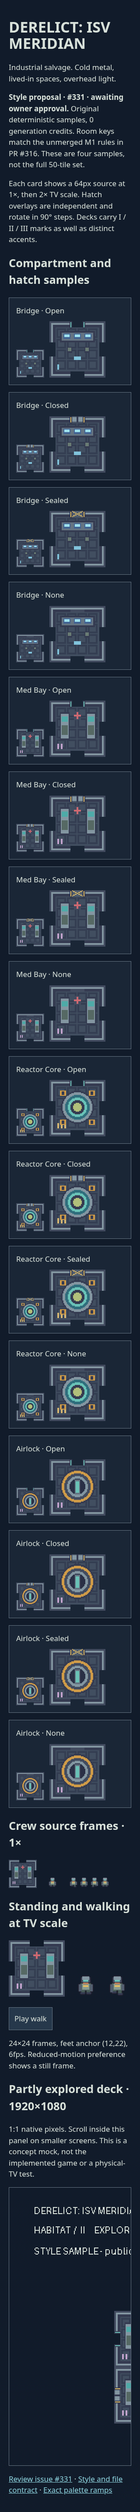
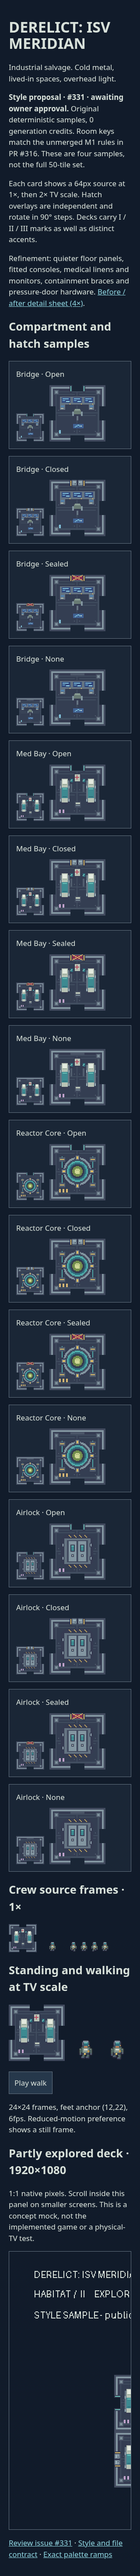
Refine Meridian room fixtures, material clusters and crew anatomy

diff --git a/docs/superpowers/reports/meridian-art/style/index.html b/docs/superpowers/reports/meridian-art/style/index.html
@@ -10,5 +10,5 @@ figcaption{margin-bottom:12px;text-transform:capitalize}.tile{position:relative;
 @keyframes walk{to{background-position:-192px 0}}@media(prefers-reduced-motion:reduce){.walker{animation:none}}body.paused .walker{animation-play-state:paused}
 </style><body><h1>DERELICT: ISV MERIDIAN</h1><p>Industrial salvage. Cold metal, lived-in spaces, overhead light.</p>
 <p><strong>Style proposal · #331 · awaiting owner approval.</strong> Original deterministic samples, 0 generation credits. Room keys match the unmerged M1 rules in PR #316. These are four samples, not the full 50-tile set.</p>
-<p>Each card shows a 64px source at 1×, then 2× TV scale. Hatch overlays are independent and rotate in 90° steps. Decks carry I / II / III marks as well as distinct accents.</p><h2>Compartment and hatch samples</h2><div class="grid"><figure><figcaption>bridge · open</figcaption><div class="tile s1" aria-label="1x"><img alt="" src="../../../../../content/meridian/base/tiles/bridge.7ddba1745235.png" width="64" height="64"><img alt="" src="../../../../../content/meridian/base/hatches/open.e7c1970b0975.png" width="64" height="64"></div><div class="tile s2" aria-label="2x"><img alt="" src="../../../../../content/meridian/base/tiles/bridge.7ddba1745235.png" width="128" height="128"><img alt="" src="../../../../../content/meridian/base/hatches/open.e7c1970b0975.png" width="128" height="128"></div></figure><figure><figcaption>bridge · closed</figcaption><div class="tile s1" aria-label="1x"><img alt="" src="../../../../../content/meridian/base/tiles/bridge.7ddba1745235.png" width="64" height="64"><img alt="" src="../../../../../content/meridian/base/hatches/closed.1f39489491df.png" width="64" height="64"></div><div class="tile s2" aria-label="2x"><img alt="" src="../../../../../content/meridian/base/tiles/bridge.7ddba1745235.png" width="128" height="128"><img alt="" src="../../../../../content/meridian/base/hatches/closed.1f39489491df.png" width="128" height="128"></div></figure><figure><figcaption>bridge · sealed</figcaption><div class="tile s1" aria-label="1x"><img alt="" src="../../../../../content/meridian/base/tiles/bridge.7ddba1745235.png" width="64" height="64"><img alt="" src="../../../../../content/meridian/base/hatches/sealed.a6ac27d481f4.png" width="64" height="64"></div><div class="tile s2" aria-label="2x"><img alt="" src="../../../../../content/meridian/base/tiles/bridge.7ddba1745235.png" width="128" height="128"><img alt="" src="../../../../../content/meridian/base/hatches/sealed.a6ac27d481f4.png" width="128" height="128"></div></figure><figure><figcaption>bridge · none</figcaption><div class="tile s1" aria-label="1x"><img alt="" src="../../../../../content/meridian/base/tiles/bridge.7ddba1745235.png" width="64" height="64"><img alt="" src="../../../../../content/meridian/base/hatches/none.5e0029512cc7.png" width="64" height="64"></div><div class="tile s2" aria-label="2x"><img alt="" src="../../../../../content/meridian/base/tiles/bridge.7ddba1745235.png" width="128" height="128"><img alt="" src="../../../../../content/meridian/base/hatches/none.5e0029512cc7.png" width="128" height="128"></div></figure><figure><figcaption>med bay · open</figcaption><div class="tile s1" aria-label="1x"><img alt="" src="../../../../../content/meridian/base/tiles/med_bay.4d6d5a795887.png" width="64" height="64"><img alt="" src="../../../../../content/meridian/base/hatches/open.e7c1970b0975.png" width="64" height="64"></div><div class="tile s2" aria-label="2x"><img alt="" src="../../../../../content/meridian/base/tiles/med_bay.4d6d5a795887.png" width="128" height="128"><img alt="" src="../../../../../content/meridian/base/hatches/open.e7c1970b0975.png" width="128" height="128"></div></figure><figure><figcaption>med bay · closed</figcaption><div class="tile s1" aria-label="1x"><img alt="" src="../../../../../content/meridian/base/tiles/med_bay.4d6d5a795887.png" width="64" height="64"><img alt="" src="../../../../../content/meridian/base/hatches/closed.1f39489491df.png" width="64" height="64"></div><div class="tile s2" aria-label="2x"><img alt="" src="../../../../../content/meridian/base/tiles/med_bay.4d6d5a795887.png" width="128" height="128"><img alt="" src="../../../../../content/meridian/base/hatches/closed.1f39489491df.png" width="128" height="128"></div></figure><figure><figcaption>med bay · sealed</figcaption><div class="tile s1" aria-label="1x"><img alt="" src="../../../../../content/meridian/base/tiles/med_bay.4d6d5a795887.png" width="64" height="64"><img alt="" src="../../../../../content/meridian/base/hatches/sealed.a6ac27d481f4.png" width="64" height="64"></div><div class="tile s2" aria-label="2x"><img alt="" src="../../../../../content/meridian/base/tiles/med_bay.4d6d5a795887.png" width="128" height="128"><img alt="" src="../../../../../content/meridian/base/hatches/sealed.a6ac27d481f4.png" width="128" height="128"></div></figure><figure><figcaption>med bay · none</figcaption><div class="tile s1" aria-label="1x"><img alt="" src="../../../../../content/meridian/base/tiles/med_bay.4d6d5a795887.png" width="64" height="64"><img alt="" src="../../../../../content/meridian/base/hatches/none.5e0029512cc7.png" width="64" height="64"></div><div class="tile s2" aria-label="2x"><img alt="" src="../../../../../content/meridian/base/tiles/med_bay.4d6d5a795887.png" width="128" height="128"><img alt="" src="../../../../../content/meridian/base/hatches/none.5e0029512cc7.png" width="128" height="128"></div></figure><figure><figcaption>reactor core · open</figcaption><div class="tile s1" aria-label="1x"><img alt="" src="../../../../../content/meridian/base/tiles/reactor_core.797f3e9c5738.png" width="64" height="64"><img alt="" src="../../../../../content/meridian/base/hatches/open.e7c1970b0975.png" width="64" height="64"></div><div class="tile s2" aria-label="2x"><img alt="" src="../../../../../content/meridian/base/tiles/reactor_core.797f3e9c5738.png" width="128" height="128"><img alt="" src="../../../../../content/meridian/base/hatches/open.e7c1970b0975.png" width="128" height="128"></div></figure><figure><figcaption>reactor core · closed</figcaption><div class="tile s1" aria-label="1x"><img alt="" src="../../../../../content/meridian/base/tiles/reactor_core.797f3e9c5738.png" width="64" height="64"><img alt="" src="../../../../../content/meridian/base/hatches/closed.1f39489491df.png" width="64" height="64"></div><div class="tile s2" aria-label="2x"><img alt="" src="../../../../../content/meridian/base/tiles/reactor_core.797f3e9c5738.png" width="128" height="128"><img alt="" src="../../../../../content/meridian/base/hatches/closed.1f39489491df.png" width="128" height="128"></div></figure><figure><figcaption>reactor core · sealed</figcaption><div class="tile s1" aria-label="1x"><img alt="" src="../../../../../content/meridian/base/tiles/reactor_core.797f3e9c5738.png" width="64" height="64"><img alt="" src="../../../../../content/meridian/base/hatches/sealed.a6ac27d481f4.png" width="64" height="64"></div><div class="tile s2" aria-label="2x"><img alt="" src="../../../../../content/meridian/base/tiles/reactor_core.797f3e9c5738.png" width="128" height="128"><img alt="" src="../../../../../content/meridian/base/hatches/sealed.a6ac27d481f4.png" width="128" height="128"></div></figure><figure><figcaption>reactor core · none</figcaption><div class="tile s1" aria-label="1x"><img alt="" src="../../../../../content/meridian/base/tiles/reactor_core.797f3e9c5738.png" width="64" height="64"><img alt="" src="../../../../../content/meridian/base/hatches/none.5e0029512cc7.png" width="64" height="64"></div><div class="tile s2" aria-label="2x"><img alt="" src="../../../../../content/meridian/base/tiles/reactor_core.797f3e9c5738.png" width="128" height="128"><img alt="" src="../../../../../content/meridian/base/hatches/none.5e0029512cc7.png" width="128" height="128"></div></figure><figure><figcaption>airlock · open</figcaption><div class="tile s1" aria-label="1x"><img alt="" src="../../../../../content/meridian/base/tiles/airlock.a4e1eecfe9bd.png" width="64" height="64"><img alt="" src="../../../../../content/meridian/base/hatches/open.e7c1970b0975.png" width="64" height="64"></div><div class="tile s2" aria-label="2x"><img alt="" src="../../../../../content/meridian/base/tiles/airlock.a4e1eecfe9bd.png" width="128" height="128"><img alt="" src="../../../../../content/meridian/base/hatches/open.e7c1970b0975.png" width="128" height="128"></div></figure><figure><figcaption>airlock · closed</figcaption><div class="tile s1" aria-label="1x"><img alt="" src="../../../../../content/meridian/base/tiles/airlock.a4e1eecfe9bd.png" width="64" height="64"><img alt="" src="../../../../../content/meridian/base/hatches/closed.1f39489491df.png" width="64" height="64"></div><div class="tile s2" aria-label="2x"><img alt="" src="../../../../../content/meridian/base/tiles/airlock.a4e1eecfe9bd.png" width="128" height="128"><img alt="" src="../../../../../content/meridian/base/hatches/closed.1f39489491df.png" width="128" height="128"></div></figure><figure><figcaption>airlock · sealed</figcaption><div class="tile s1" aria-label="1x"><img alt="" src="../../../../../content/meridian/base/tiles/airlock.a4e1eecfe9bd.png" width="64" height="64"><img alt="" src="../../../../../content/meridian/base/hatches/sealed.a6ac27d481f4.png" width="64" height="64"></div><div class="tile s2" aria-label="2x"><img alt="" src="../../../../../content/meridian/base/tiles/airlock.a4e1eecfe9bd.png" width="128" height="128"><img alt="" src="../../../../../content/meridian/base/hatches/sealed.a6ac27d481f4.png" width="128" height="128"></div></figure><figure><figcaption>airlock · none</figcaption><div class="tile s1" aria-label="1x"><img alt="" src="../../../../../content/meridian/base/tiles/airlock.a4e1eecfe9bd.png" width="64" height="64"><img alt="" src="../../../../../content/meridian/base/hatches/none.5e0029512cc7.png" width="64" height="64"></div><div class="tile s2" aria-label="2x"><img alt="" src="../../../../../content/meridian/base/tiles/airlock.a4e1eecfe9bd.png" width="128" height="128"><img alt="" src="../../../../../content/meridian/base/hatches/none.5e0029512cc7.png" width="128" height="128"></div></figure></div><h2>Crew source frames · 1×</h2><div class="crew"><img alt="Compartment at 1x" src="../../../../../content/meridian/base/tiles/med_bay.4d6d5a795887.png" width="64" height="64"><img alt="Ines standing at 1x" src="../../../../../content/meridian/base/crew/ines-okafor-idle.325eb04bccbc.png" width="24" height="24"><img alt="Four walking frames at 1x" src="../../../../../content/meridian/base/crew/ines-okafor-walk.e9eaa4d39c8b.png" width="96" height="24"></div><h2>Standing and walking at TV scale</h2><div class="crew"><img alt="Habitat compartment at 2x" src="../../../../../content/meridian/base/tiles/med_bay.4d6d5a795887.png" width="128" height="128"><img alt="Ines standing at 2x" src="../../../../../content/meridian/base/crew/ines-okafor-idle.325eb04bccbc.png" width="48" height="48"><div role="img" aria-label="Ines walking at 2x" class="walker" style="background-image:url(../../../../../content/meridian/base/crew/ines-okafor-walk.e9eaa4d39c8b.png)"></div><button id="motion">Pause walk</button></div><p>24×24 frames, feet anchor (12,22), 6fps. Reduced-motion preference shows a still frame.</p><h2>Partly explored deck · 1920×1080</h2><p>1:1 native pixels. Scroll inside this panel on smaller screens. This is a concept mock, not the implemented game or a physical-TV test.</p><div class="pan" tabindex="0" aria-label="Full resolution TV mock; scroll to inspect"><img src="deck-mock-1080.png" width="1920" height="1080" alt="Habitat exploration mock with two crew, separate Command and Engineering samples, hatch legend and deck labels"></div>
+<p>Each card shows a 64px source at 1×, then 2× TV scale. Hatch overlays are independent and rotate in 90° steps. Decks carry I / II / III marks as well as distinct accents.</p><p>Refinement: quieter floor panels, fitted consoles, medical linens and monitors, containment braces and pressure-door hardware. <a href="detail-comparison.png">Before / after detail sheet (4×)</a>.</p><h2>Compartment and hatch samples</h2><div class="grid"><figure><figcaption>bridge · open</figcaption><div class="tile s1" aria-label="1x"><img alt="" src="../../../../../content/meridian/base/tiles/bridge.643961f96cc4.png" width="64" height="64"><img alt="" src="../../../../../content/meridian/base/hatches/open.e7c1970b0975.png" width="64" height="64"></div><div class="tile s2" aria-label="2x"><img alt="" src="../../../../../content/meridian/base/tiles/bridge.643961f96cc4.png" width="128" height="128"><img alt="" src="../../../../../content/meridian/base/hatches/open.e7c1970b0975.png" width="128" height="128"></div></figure><figure><figcaption>bridge · closed</figcaption><div class="tile s1" aria-label="1x"><img alt="" src="../../../../../content/meridian/base/tiles/bridge.643961f96cc4.png" width="64" height="64"><img alt="" src="../../../../../content/meridian/base/hatches/closed.f20fc87c6603.png" width="64" height="64"></div><div class="tile s2" aria-label="2x"><img alt="" src="../../../../../content/meridian/base/tiles/bridge.643961f96cc4.png" width="128" height="128"><img alt="" src="../../../../../content/meridian/base/hatches/closed.f20fc87c6603.png" width="128" height="128"></div></figure><figure><figcaption>bridge · sealed</figcaption><div class="tile s1" aria-label="1x"><img alt="" src="../../../../../content/meridian/base/tiles/bridge.643961f96cc4.png" width="64" height="64"><img alt="" src="../../../../../content/meridian/base/hatches/sealed.78098a4b9f0e.png" width="64" height="64"></div><div class="tile s2" aria-label="2x"><img alt="" src="../../../../../content/meridian/base/tiles/bridge.643961f96cc4.png" width="128" height="128"><img alt="" src="../../../../../content/meridian/base/hatches/sealed.78098a4b9f0e.png" width="128" height="128"></div></figure><figure><figcaption>bridge · none</figcaption><div class="tile s1" aria-label="1x"><img alt="" src="../../../../../content/meridian/base/tiles/bridge.643961f96cc4.png" width="64" height="64"><img alt="" src="../../../../../content/meridian/base/hatches/none.5eeef845f8ae.png" width="64" height="64"></div><div class="tile s2" aria-label="2x"><img alt="" src="../../../../../content/meridian/base/tiles/bridge.643961f96cc4.png" width="128" height="128"><img alt="" src="../../../../../content/meridian/base/hatches/none.5eeef845f8ae.png" width="128" height="128"></div></figure><figure><figcaption>med bay · open</figcaption><div class="tile s1" aria-label="1x"><img alt="" src="../../../../../content/meridian/base/tiles/med_bay.5661eec2c20b.png" width="64" height="64"><img alt="" src="../../../../../content/meridian/base/hatches/open.e7c1970b0975.png" width="64" height="64"></div><div class="tile s2" aria-label="2x"><img alt="" src="../../../../../content/meridian/base/tiles/med_bay.5661eec2c20b.png" width="128" height="128"><img alt="" src="../../../../../content/meridian/base/hatches/open.e7c1970b0975.png" width="128" height="128"></div></figure><figure><figcaption>med bay · closed</figcaption><div class="tile s1" aria-label="1x"><img alt="" src="../../../../../content/meridian/base/tiles/med_bay.5661eec2c20b.png" width="64" height="64"><img alt="" src="../../../../../content/meridian/base/hatches/closed.f20fc87c6603.png" width="64" height="64"></div><div class="tile s2" aria-label="2x"><img alt="" src="../../../../../content/meridian/base/tiles/med_bay.5661eec2c20b.png" width="128" height="128"><img alt="" src="../../../../../content/meridian/base/hatches/closed.f20fc87c6603.png" width="128" height="128"></div></figure><figure><figcaption>med bay · sealed</figcaption><div class="tile s1" aria-label="1x"><img alt="" src="../../../../../content/meridian/base/tiles/med_bay.5661eec2c20b.png" width="64" height="64"><img alt="" src="../../../../../content/meridian/base/hatches/sealed.78098a4b9f0e.png" width="64" height="64"></div><div class="tile s2" aria-label="2x"><img alt="" src="../../../../../content/meridian/base/tiles/med_bay.5661eec2c20b.png" width="128" height="128"><img alt="" src="../../../../../content/meridian/base/hatches/sealed.78098a4b9f0e.png" width="128" height="128"></div></figure><figure><figcaption>med bay · none</figcaption><div class="tile s1" aria-label="1x"><img alt="" src="../../../../../content/meridian/base/tiles/med_bay.5661eec2c20b.png" width="64" height="64"><img alt="" src="../../../../../content/meridian/base/hatches/none.5eeef845f8ae.png" width="64" height="64"></div><div class="tile s2" aria-label="2x"><img alt="" src="../../../../../content/meridian/base/tiles/med_bay.5661eec2c20b.png" width="128" height="128"><img alt="" src="../../../../../content/meridian/base/hatches/none.5eeef845f8ae.png" width="128" height="128"></div></figure><figure><figcaption>reactor core · open</figcaption><div class="tile s1" aria-label="1x"><img alt="" src="../../../../../content/meridian/base/tiles/reactor_core.3fde76e50072.png" width="64" height="64"><img alt="" src="../../../../../content/meridian/base/hatches/open.e7c1970b0975.png" width="64" height="64"></div><div class="tile s2" aria-label="2x"><img alt="" src="../../../../../content/meridian/base/tiles/reactor_core.3fde76e50072.png" width="128" height="128"><img alt="" src="../../../../../content/meridian/base/hatches/open.e7c1970b0975.png" width="128" height="128"></div></figure><figure><figcaption>reactor core · closed</figcaption><div class="tile s1" aria-label="1x"><img alt="" src="../../../../../content/meridian/base/tiles/reactor_core.3fde76e50072.png" width="64" height="64"><img alt="" src="../../../../../content/meridian/base/hatches/closed.f20fc87c6603.png" width="64" height="64"></div><div class="tile s2" aria-label="2x"><img alt="" src="../../../../../content/meridian/base/tiles/reactor_core.3fde76e50072.png" width="128" height="128"><img alt="" src="../../../../../content/meridian/base/hatches/closed.f20fc87c6603.png" width="128" height="128"></div></figure><figure><figcaption>reactor core · sealed</figcaption><div class="tile s1" aria-label="1x"><img alt="" src="../../../../../content/meridian/base/tiles/reactor_core.3fde76e50072.png" width="64" height="64"><img alt="" src="../../../../../content/meridian/base/hatches/sealed.78098a4b9f0e.png" width="64" height="64"></div><div class="tile s2" aria-label="2x"><img alt="" src="../../../../../content/meridian/base/tiles/reactor_core.3fde76e50072.png" width="128" height="128"><img alt="" src="../../../../../content/meridian/base/hatches/sealed.78098a4b9f0e.png" width="128" height="128"></div></figure><figure><figcaption>reactor core · none</figcaption><div class="tile s1" aria-label="1x"><img alt="" src="../../../../../content/meridian/base/tiles/reactor_core.3fde76e50072.png" width="64" height="64"><img alt="" src="../../../../../content/meridian/base/hatches/none.5eeef845f8ae.png" width="64" height="64"></div><div class="tile s2" aria-label="2x"><img alt="" src="../../../../../content/meridian/base/tiles/reactor_core.3fde76e50072.png" width="128" height="128"><img alt="" src="../../../../../content/meridian/base/hatches/none.5eeef845f8ae.png" width="128" height="128"></div></figure><figure><figcaption>airlock · open</figcaption><div class="tile s1" aria-label="1x"><img alt="" src="../../../../../content/meridian/base/tiles/airlock.5a8c019825e3.png" width="64" height="64"><img alt="" src="../../../../../content/meridian/base/hatches/open.e7c1970b0975.png" width="64" height="64"></div><div class="tile s2" aria-label="2x"><img alt="" src="../../../../../content/meridian/base/tiles/airlock.5a8c019825e3.png" width="128" height="128"><img alt="" src="../../../../../content/meridian/base/hatches/open.e7c1970b0975.png" width="128" height="128"></div></figure><figure><figcaption>airlock · closed</figcaption><div class="tile s1" aria-label="1x"><img alt="" src="../../../../../content/meridian/base/tiles/airlock.5a8c019825e3.png" width="64" height="64"><img alt="" src="../../../../../content/meridian/base/hatches/closed.f20fc87c6603.png" width="64" height="64"></div><div class="tile s2" aria-label="2x"><img alt="" src="../../../../../content/meridian/base/tiles/airlock.5a8c019825e3.png" width="128" height="128"><img alt="" src="../../../../../content/meridian/base/hatches/closed.f20fc87c6603.png" width="128" height="128"></div></figure><figure><figcaption>airlock · sealed</figcaption><div class="tile s1" aria-label="1x"><img alt="" src="../../../../../content/meridian/base/tiles/airlock.5a8c019825e3.png" width="64" height="64"><img alt="" src="../../../../../content/meridian/base/hatches/sealed.78098a4b9f0e.png" width="64" height="64"></div><div class="tile s2" aria-label="2x"><img alt="" src="../../../../../content/meridian/base/tiles/airlock.5a8c019825e3.png" width="128" height="128"><img alt="" src="../../../../../content/meridian/base/hatches/sealed.78098a4b9f0e.png" width="128" height="128"></div></figure><figure><figcaption>airlock · none</figcaption><div class="tile s1" aria-label="1x"><img alt="" src="../../../../../content/meridian/base/tiles/airlock.5a8c019825e3.png" width="64" height="64"><img alt="" src="../../../../../content/meridian/base/hatches/none.5eeef845f8ae.png" width="64" height="64"></div><div class="tile s2" aria-label="2x"><img alt="" src="../../../../../content/meridian/base/tiles/airlock.5a8c019825e3.png" width="128" height="128"><img alt="" src="../../../../../content/meridian/base/hatches/none.5eeef845f8ae.png" width="128" height="128"></div></figure></div><h2>Crew source frames · 1×</h2><div class="crew"><img alt="Compartment at 1x" src="../../../../../content/meridian/base/tiles/med_bay.5661eec2c20b.png" width="64" height="64"><img alt="Ines standing at 1x" src="../../../../../content/meridian/base/crew/ines-okafor-idle.a1ca1b3a07f0.png" width="24" height="24"><img alt="Four walking frames at 1x" src="../../../../../content/meridian/base/crew/ines-okafor-walk.1f9f5985b6f3.png" width="96" height="24"></div><h2>Standing and walking at TV scale</h2><div class="crew"><img alt="Habitat compartment at 2x" src="../../../../../content/meridian/base/tiles/med_bay.5661eec2c20b.png" width="128" height="128"><img alt="Ines standing at 2x" src="../../../../../content/meridian/base/crew/ines-okafor-idle.a1ca1b3a07f0.png" width="48" height="48"><div role="img" aria-label="Ines walking at 2x" class="walker" style="background-image:url(../../../../../content/meridian/base/crew/ines-okafor-walk.1f9f5985b6f3.png)"></div><button id="motion">Pause walk</button></div><p>24×24 frames, feet anchor (12,22), 6fps. Reduced-motion preference shows a still frame.</p><h2>Partly explored deck · 1920×1080</h2><p>1:1 native pixels. Scroll inside this panel on smaller screens. This is a concept mock, not the implemented game or a physical-TV test.</p><div class="pan" tabindex="0" aria-label="Full resolution TV mock; scroll to inspect"><img src="deck-mock-1080.png" width="1920" height="1080" alt="Habitat exploration mock with two crew, separate Command and Engineering samples, hatch legend and deck labels"></div>
 <p><a href="https://github.com/higharc91/ArcBox/issues/331">Review issue #331</a> · <a href="../../../../../tools/meridian-assets/STYLE.md">Style and file contract</a> · <a href="palette.json">Exact palette ramps</a></p><script>const b=document.querySelector('#motion');b.onclick=()=>{document.body.classList.toggle('paused');b.textContent=document.body.classList.contains('paused')?'Play walk':'Pause walk'};</script></body></html>

diff --git a/tools/meridian-assets/build.py b/tools/meridian-assets/build.py
@@ -17,7 +17,7 @@ from arcpix.palette import ramp
 
 BASES = {'hull': '#657482', 'floor': '#414e60', 'warning': '#cf9b48', 'red': '#b94e61',
          'coolant': '#4eaaa8', 'anomaly': '#91a660', 'command': '#68a5c8',
-         'habitat': '#a98cb8', 'engineering': '#c39759', 'skin': '#b67d59', 'suit': '#697b74'}
+         'habitat': '#a98cb8', 'engineering': '#c39759', 'skin': '#b67d59', 'suit': '#697b74', 'linen': '#b8c3b6'}
 PALETTE = {name: ramp(value, shift=.055, spread=.85) for name, value in BASES.items()}
 PLAYERS = ['#ff8a3d', '#3ec7ff', '#c08cff', '#5fe08a', '#ffd447', '#ff7fb6']
 SAMPLES = {'bridge': 'command', 'med_bay': 'habitat', 'reactor_core': 'engineering', 'airlock': 'habitat'}
@@ -36,45 +36,114 @@ def room(key):
     c.rect(2, 2, 61, 61, 'hull', 4)
     c.rect(4, 4, 59, 59, 'hull', 0)
     c.rect(7, 7, 56, 56, 'floor', 3)
-    for y in range(8, 56, 12):
-        for x in range(8, 56, 12):
-            c.rect(x, y, x+10, y+10, 'floor', 2)
-            c.rect(x+2, y+2, x+8, y+8, 'floor', 3)
+    # Quiet large panels keep small equipment silhouettes legible at 2x.
+    for y in [8, 32]:
+        for x in [8, 32]:
+            c.rect(x, y, x+22, y+22, 'floor', 2)
+            c.line(x+2, y+2, x+20, y+2, 'floor', 3)
+            c.px(x+2, y+20, 'hull', 2)
+            c.px(x+20, y+20, 'hull', 2)
+    # Matching corner couplers, illuminated from overhead rather than a compass direction.
+    for x, y in [(5, 5), (53, 5), (5, 53), (53, 53)]:
+        c.rect(x, y, x+5, y+5, 'hull', 1)
+        c.rect(x+1, y+1, x+4, y+4, 'hull', 3)
+        c.rect(x+2, y+2, x+3, y+3, 'hull', 4)
     deck = SAMPLES[key]
     for i in range(['command', 'habitat', 'engineering'].index(deck)+1):
-        c.rect(9+i*4, 49, 10+i*4, 54, deck, 4)
+        c.rect(11+i*4, 51, 12+i*4, 54, deck, 4)
     if key == 'bridge':
-        c.rect(12, 11, 51, 23, 'hull', 0)
-        c.rect(14, 13, 49, 21, 'hull', 3)
-        for x in [16, 28, 40]:
-            c.rect(x, 14, x+7, 19, 'command', 1)
-            c.rect(x+1, 15, x+6, 17, 'command', 5)
-        for x in [20, 40]:
-            c.rect(x, 29, x+5, 35, 'hull', 0)
-            c.rect(x+1, 30, x+4, 33, 'suit', 3)
-        c.rect(28, 40, 35, 43, 'command', 4)
+        # Wraparound station: inset glass, clustered telemetry and discrete controls.
+        c.polygon([(11,12),(52,12),(52,29),(44,29),(44,23),(19,23),(19,29),(11,29)], 'hull', 0)
+        c.rect(12,13,51,21,'hull',3)
+        for x in [14,27,40]:
+            c.rect(x,14,x+9,19,'command',0)
+            c.line(x+1,15,x+7,15,'command',4)
+            c.line(x+1,17,x+3,17,'command',3)
+            c.line(x+5,18,x+8,18,'command',5)
+            c.px(x+9,21,'warning',4)
+        for x in [12,45]:
+            c.rect(x,22,x+5,27,'hull',3)
+            c.rect(x+1,23,x+4,24,'command',2)
+            c.line(x+1,26,x+3,26,'linen',3)
+        # Chair has a back, armrests, seat and a visible pedestal.
+        c.ellipse(32,37,5,3,'hull',0)
+        c.rect(31,32,32,39,'hull',3)
+        c.rect(27,27,36,34,'hull',0)
+        c.rect(28,28,35,32,'suit',3)
+        c.rect(29,27,34,28,'suit',4)
+        c.rect(26,30,27,34,'hull',4)
+        c.rect(36,30,37,34,'hull',4)
+        # Low navigation table with a deliberately sparse route diagram.
+        c.rect(26,43,39,49,'hull',0)
+        c.rect(27,44,38,48,'command',1)
+        c.line(29,47,32,45,'command',4)
+        c.line(32,45,36,46,'command',4)
+        c.px(36,46,'linen',5)
     elif key == 'med_bay':
-        for x in [12, 42]:
-            c.rect(x, 13, x+10, 44, 'hull', 0)
-            c.rect(x+1, 15, x+9, 42, 'hull', 4)
-            c.rect(x+2, 18, x+8, 23, 'coolant', 3)
-            c.rect(x+2, 28, x+8, 38, 'suit', 2)
-        c.rect(28, 12, 35, 21, 'hull', 1)
-        c.rect(31, 13, 32, 20, 'red', 4)
-        c.rect(28, 16, 35, 17, 'red', 4)
+        for x in [12,42]:
+            c.rect(x+1,15,x+9,45,'hull',0)
+            c.rect(x,18,x+10,41,'hull',3)
+            c.rect(x+2,16,x+8,42,'linen',3)
+            c.rect(x+3,17,x+7,21,'linen',5)
+            c.line(x+3,22,x+7,22,'linen',2)
+            c.rect(x+2,26,x+8,37,'coolant',2)
+            c.line(x+3,27,x+7,27,'coolant',4)
+            c.line(x+3,36,x+7,36,'coolant',1)
+            for y in [24,39]:
+                c.line(x,y,x,y+2,'hull',5)
+                c.line(x+10,y,x+10,y+2,'hull',5)
+            # Bedside monitor, its support and a waveform rather than a bright slab.
+            mx = x+11 if x == 12 else x-5
+            c.rect(mx+1,21,mx+2,30,'hull',2)
+            c.rect(mx,15,mx+4,21,'hull',0)
+            c.rect(mx+1,16,mx+3,19,'coolant',1)
+            c.line(mx+1,18,mx+2,17,'coolant',5)
+        c.rect(28,10,35,19,'hull',0)
+        c.rect(29,11,34,18,'linen',3)
+        c.line(31,12,31,16,'red',3)
+        c.line(29,14,33,14,'red',3)
+        c.rect(29,42,35,48,'hull',1)
+        c.rect(30,43,34,44,'linen',3)
+        c.line(30,46,34,46,'hull',4)
     elif key == 'reactor_core':
-        for radius, slot, shade in [(19, 'hull', 0), (17, 'hull', 4), (14, 'coolant', 1),
-                                    (11, 'coolant', 4), (8, 'hull', 0), (5, 'anomaly', 4)]:
-            c.ellipse(32, 31, radius, radius, slot, shade)
-        for x, y in [(12, 12), (45, 12), (12, 45), (45, 45)]:
-            c.rect(x, y, x+6, y+5, 'warning', 3)
-            c.rect(x+2, y+1, x+4, y+4, 'hull', 0)
+        # Pipes terminate in paired valve housings around a segmented containment ring.
+        for x in [13,48]:
+            c.rect(x,13,x+2,48,'hull',0)
+            c.line(x+1,14,x+1,47,'coolant',3)
+            for y in [15,44]:
+                c.rect(x-2,y,x+4,y+4,'hull',2)
+                c.line(x-1,y+2,x+3,y+2,'warning',4)
+        for radius,slot,shade in [(18,'hull',0),(16,'hull',4),(14,'hull',1),
+                                  (12,'coolant',3),(10,'coolant',1),(8,'hull',0),
+                                  (6,'anomaly',2),(3,'anomaly',5)]:
+            c.ellipse(32,31,radius,radius,slot,shade)
+        for x,y,w,h in [(29,12,6,7),(29,44,6,7),(13,28,7,6),(45,28,7,6)]:
+            c.rect(x,y,x+w-1,y+h-1,'hull',0)
+            c.rect(x+1,y+1,x+w-2,y+h-2,'hull',3)
+            c.rect(x+2,y+2,x+w-3,y+h-3,'warning',4)
+        c.line(30,29,33,29,'anomaly',4)
+        c.line(34,30,34,33,'anomaly',4)
     else:
-        for radius, slot, shade in [(20, 'hull', 0), (18, 'warning', 3), (15, 'hull', 1),
-                                    (12, 'hull', 4), (9, 'floor', 1)]:
-            c.ellipse(32, 31, radius, radius, slot, shade)
-        c.rect(29, 23, 34, 39, 'hull', 3)
-        c.rect(30, 25, 33, 37, 'coolant', 4)
+        # Rectangular pressure vestibule distinguishes the airlock from the reactor.
+        c.polygon([(19,12),(44,12),(50,18),(50,44),(44,50),(19,50),(13,44),(13,18)],'hull',0)
+        c.rect(17,17,46,45,'hull',3)
+        c.rect(20,19,43,43,'hull',1)
+        c.rect(22,20,41,42,'hull',4)
+        c.line(31,20,31,42,'hull',0)
+        c.line(32,20,32,42,'hull',2)
+        for x in [24,35]:
+            c.rect(x,24,x+4,31,'hull',0)
+            c.rect(x+1,25,x+3,30,'coolant',2)
+            c.line(x+1,25,x+3,25,'coolant',4)
+            c.rect(x+1,35,x+3,37,'hull',1)
+            c.px(x+2,36,'linen',4)
+        for y in [13,47]:
+            for x in [22,28,34,40]:
+                c.line(x,y,x+2,y+2,'warning',4)
+        for x in [14,46]:
+            for y in [22,37]:
+                c.rect(x,y,x+2,y+4,'hull',0)
+                c.line(x+1,y+1,x+1,y+3,'hull',5)
     # Exactly sixteen open edge pixels, including every outside wall layer.
     for i in range(24, 40):
         for j in range(7):
@@ -88,6 +157,7 @@ def hatch(state):
     if state == 'none':
         c.rect(24, 0, 39, 6, 'hull', 1)
         c.rect(24, 2, 39, 3, 'hull', 4)
+        c.line(24, 5, 39, 5, 'hull', 2)
     else:
         for x in [23, 38]:
             c.rect(x, 0, x+2, 7, 'hull', 0)
@@ -98,7 +168,12 @@ def hatch(state):
                 c.rect(26, 1, 30, 5, 'hull', 4)
                 c.rect(33, 1, 37, 5, 'hull', 4)
                 c.rect(31, 0, 32, 6, 'hull', 0)
+                c.line(27, 2, 29, 2, 'hull', 5)
+                c.line(34, 2, 36, 2, 'hull', 5)
+                c.px(29, 4, 'hull', 1)
+                c.px(34, 4, 'hull', 1)
             else:
+                c.rect(26, 1, 37, 5, 'red', 1)
                 c.thick_line(26, 0, 37, 6, 2, 'warning', 4)
                 c.thick_line(37, 0, 26, 6, 2, 'warning', 4)
     return c.render(PALETTE)
@@ -107,19 +182,30 @@ def hatch(state):
 def crew(frame=0):
     c = canvas(24, 24)
     left, right = [(0, 0), (-1, 1), (0, 0), (1, -1), (0, 0)][frame]
-    c.rect(7, 15+left, 10, 19+left, 'suit', 1)
-    c.rect(13, 15+right, 16, 19+right, 'suit', 1)
-    c.rect(6, 19+left, 10, 20+left, 'hull', 0)
-    c.rect(13, 19+right, 17, 20+right, 'hull', 0)
-    c.rect(6, 9, 17, 16, 'suit', 2)
-    c.rect(8, 9, 15, 15, 'suit', 4)
-    c.rect(4, 10, 6, 17-left, 'hull', 2)
-    c.rect(17, 10, 19, 17-right, 'hull', 2)
-    c.rect(9, 3, 14, 9, 'skin', 3)
-    c.rect(7, 2, 16, 7, 'hull', 1)
-    c.rect(8, 1, 15, 4, 'hull', 4)
-    c.rect(9, 5, 14, 6, 'coolant', 4)
-    c.rect(9, 11, 14, 12, 'warning', 4)
+    # Articulated boots, tapered torso, separate gloves and a compact helmet.
+    for x, offset in [(8,left),(13,right)]:
+        c.rect(x,15+offset,x+2,19+offset,'suit',1)
+        c.line(x,16+offset,x+1,17+offset,'suit',3)
+        c.rect(x-1,19+offset,x+2,20+offset,'hull',0)
+        c.line(x-1,19+offset,x+1,19+offset,'hull',3)
+    c.rect(7,8,16,13,'suit',1)
+    c.rect(8,9,15,15,'suit',3)
+    c.rect(9,10,14,13,'suit',4)
+    c.rect(8,15,15,16,'hull',0)
+    c.rect(10,15,11,16,'warning',4)
+    for x, offset in [(5,-left),(17,-right)]:
+        c.rect(x,10,x+1,14+offset,'suit',2)
+        c.px(x,10,'suit',4)
+        c.rect(x,15+offset,x+1,16+offset,'hull',2)
+    c.rect(8,2,15,7,'hull',1)
+    c.rect(9,1,14,2,'hull',4)
+    c.rect(8,3,8,5,'hull',3)
+    c.rect(10,3,14,6,'coolant',1)
+    c.line(10,3,13,3,'coolant',4)
+    c.rect(10,7,13,8,'skin',3)
+    c.px(15,6,'warning',4)
+    c.rect(10,10,13,11,'linen',4)
+    c.rect(14,12,15,13,'warning',3)
     c.outline()
     return c.render(PALETTE)
 
@@ -217,7 +303,7 @@ figcaption{margin-bottom:12px;text-transform:capitalize}.tile{position:relative;
 @keyframes walk{to{background-position:-192px 0}}@media(prefers-reduced-motion:reduce){.walker{animation:none}}body.paused .walker{animation-play-state:paused}
 </style><body><h1>DERELICT: ISV MERIDIAN</h1><p>Industrial salvage. Cold metal, lived-in spaces, overhead light.</p>
 <p><strong>Style proposal · #331 · awaiting owner approval.</strong> Original deterministic samples, 0 generation credits. Room keys match the unmerged M1 rules in PR #316. These are four samples, not the full 50-tile set.</p>
-<p>Each card shows a 64px source at 1×, then 2× TV scale. Hatch overlays are independent and rotate in 90° steps. Decks carry I / II / III marks as well as distinct accents.</p><h2>Compartment and hatch samples</h2><div class="grid">'''+''.join(cards)+'''</div><h2>Crew source frames · 1×</h2><div class="crew">'''+f'<img alt="Compartment at 1x" src="{base}tiles/{tiles["med_bay"]["file"]}" width="64" height="64"><img alt="Ines standing at 1x" src="{base}crew/{person["idle"]["file"]}" width="24" height="24"><img alt="Four walking frames at 1x" src="{base}crew/{person["walk"]["file"]}" width="96" height="24">'+'''</div><h2>Standing and walking at TV scale</h2><div class="crew">'''+f'<img alt="Habitat compartment at 2x" src="{base}tiles/{tiles["med_bay"]["file"]}" width="128" height="128"><img alt="Ines standing at 2x" src="{base}crew/{person["idle"]["file"]}" width="48" height="48"><div role="img" aria-label="Ines walking at 2x" class="walker" style="background-image:url({base}crew/{person["walk"]["file"]})"></div>'+'''<button id="motion">Pause walk</button></div><p>24×24 frames, feet anchor (12,22), 6fps. Reduced-motion preference shows a still frame.</p><h2>Partly explored deck · 1920×1080</h2><p>1:1 native pixels. Scroll inside this panel on smaller screens. This is a concept mock, not the implemented game or a physical-TV test.</p><div class="pan" tabindex="0" aria-label="Full resolution TV mock; scroll to inspect"><img src="deck-mock-1080.png" width="1920" height="1080" alt="Habitat exploration mock with two crew, separate Command and Engineering samples, hatch legend and deck labels"></div>
+<p>Each card shows a 64px source at 1×, then 2× TV scale. Hatch overlays are independent and rotate in 90° steps. Decks carry I / II / III marks as well as distinct accents.</p><p>Refinement: quieter floor panels, fitted consoles, medical linens and monitors, containment braces and pressure-door hardware. <a href="detail-comparison.png">Before / after detail sheet (4×)</a>.</p><h2>Compartment and hatch samples</h2><div class="grid">'''+''.join(cards)+'''</div><h2>Crew source frames · 1×</h2><div class="crew">'''+f'<img alt="Compartment at 1x" src="{base}tiles/{tiles["med_bay"]["file"]}" width="64" height="64"><img alt="Ines standing at 1x" src="{base}crew/{person["idle"]["file"]}" width="24" height="24"><img alt="Four walking frames at 1x" src="{base}crew/{person["walk"]["file"]}" width="96" height="24">'+'''</div><h2>Standing and walking at TV scale</h2><div class="crew">'''+f'<img alt="Habitat compartment at 2x" src="{base}tiles/{tiles["med_bay"]["file"]}" width="128" height="128"><img alt="Ines standing at 2x" src="{base}crew/{person["idle"]["file"]}" width="48" height="48"><div role="img" aria-label="Ines walking at 2x" class="walker" style="background-image:url({base}crew/{person["walk"]["file"]})"></div>'+'''<button id="motion">Pause walk</button></div><p>24×24 frames, feet anchor (12,22), 6fps. Reduced-motion preference shows a still frame.</p><h2>Partly explored deck · 1920×1080</h2><p>1:1 native pixels. Scroll inside this panel on smaller screens. This is a concept mock, not the implemented game or a physical-TV test.</p><div class="pan" tabindex="0" aria-label="Full resolution TV mock; scroll to inspect"><img src="deck-mock-1080.png" width="1920" height="1080" alt="Habitat exploration mock with two crew, separate Command and Engineering samples, hatch legend and deck labels"></div>
 <p><a href="https://github.com/higharc91/ArcBox/issues/331">Review issue #331</a> · <a href="../../../../../tools/meridian-assets/STYLE.md">Style and file contract</a> · <a href="palette.json">Exact palette ramps</a></p><script>const b=document.querySelector('#motion');b.onclick=()=>{document.body.classList.toggle('paused');b.textContent=document.body.classList.contains('paused')?'Play walk':'Pause walk'};</script></body></html>'''
     (review/'index.html').write_text(html)
     return pack, review

diff --git a/tools/meridian-assets/review-sheet.py b/tools/meridian-assets/review-sheet.py
@@ -1,0 +1,40 @@
+"""Build a source-to-source detail comparison and exact 2x contact sheet."""
+import json
+from pathlib import Path
+from PIL import Image, ImageDraw, ImageFont
+ROOT=Path(__file__).resolve().parents[2]
+PACK=ROOT/'content/meridian/base'
+OUT=ROOT/'docs/superpowers/reports/meridian-art/style'
+OLD={'bridge':'7ddba1745235','med_bay':'4d6d5a795887','reactor_core':'797f3e9c5738','airlock':'a4e1eecfe9bd'}
+tiles=json.loads((PACK/'tiles/manifest.json').read_text())['tiles']
+hatches=json.loads((PACK/'hatches/manifest.json').read_text())['states']
+crew=json.loads((PACK/'crew/manifest.json').read_text())['crew']['ines_okafor']
+def draw_text(im,xy,text):
+    d=ImageDraw.Draw(im); d.fontmode='1'; d.text(xy,text,font=ImageFont.load_default(),fill='#d8e1da')
+sheet=Image.new('RGBA',(400,480),'#111b2a')
+draw_text(sheet,(10,4),'MERIDIAN / REFINED SAMPLES / TV 2x')
+compare=Image.new('RGBA',(640,440),'#111b2a')
+draw_text(compare,(20,12),'DETAIL REFINEMENT / SOURCE PIXELS AT 4x')
+draw_text(compare,(20,34),'Each room: previous sample / revised sample')
+for col,(key,tile) in enumerate(tiles.items()):
+    x=50+col*85
+    draw_text(sheet,(x-24,24),key.replace('_',' '))
+    image=Image.open(PACK/'tiles'/tile['file'])
+    for row,(state,hatch) in enumerate(hatches.items()):
+        y=42+row*88
+        if col==0: draw_text(sheet,(4,y+26),state)
+        sheet.alpha_composite(image,(x,y))
+        sheet.alpha_composite(Image.open(PACK/'hatches'/hatch['file']),(x,y))
+    # Pair rooms in two rows, four columns: before/after for each room.
+    x0=20+(col%2)*316; y0=64+(col//2)*184
+    draw_text(compare,(x0,y0),key.replace('_',' '))
+    old=Image.open(PACK/'tiles'/f'{key}.{OLD[key]}.png')
+    # Each pair at integer 2x; final comparison is integer 2x again.
+    compare.alpha_composite(old.resize((128,128),Image.Resampling.NEAREST),(x0,y0+22))
+    compare.alpha_composite(image.resize((128,128),Image.Resampling.NEAREST),(x0+148,y0+22))
+    draw_text(compare,(x0,y0+154),'BEFORE              REVISED')
+draw_text(sheet,(10,405),'INES / STANDING + FOUR WALK FRAMES')
+sheet.alpha_composite(Image.open(PACK/'crew'/crew['idle']['file']),(50,430))
+sheet.alpha_composite(Image.open(PACK/'crew'/crew['walk']['file']),(100,430))
+sheet.resize((800,960),Image.Resampling.NEAREST).convert('RGB').save(OUT/'sample-sheet-tv.png')
+compare.resize((1280,880),Image.Resampling.NEAREST).convert('RGB').save(OUT/'detail-comparison.png')

diff --git a/docs/superpowers/reports/meridian-art/style/README.md b/docs/superpowers/reports/meridian-art/style/README.md
@@ -25,3 +25,11 @@ Actual full-severity Machado 2009 deuteranopia/protanopia transformations of the
 The full repository command is `bash tools/check-all.sh --full`. It also runs the new Meridian contract suite through the existing Python group. The command began at `f7fbba7d`; the gallery source-frame row and hatch bounding-box metadata were tightened before its Python phase, at asset code head `558abe07`. C# and phone production sources are unchanged from main. Final group results and complete compressed output are recorded in `validation.json` and `full-check.txt.gz`. CI remains manually disabled. A passing full gate and owner style approval are still required before merge/closure and full-set production.
 
 Final full-check result: .NET 7,727/7,739 passed, 12 failures exactly matching the recorded main baseline, zero skipped and zero build warnings. Phone 601 tests plus production build pass (two existing SignalR annotation warnings); Node 24 and Python 104 tests pass (61 Tactics assets, 9 audio, 8 Meridian assets, 26 lore). Lore and documentation drift pass. Overall exit 1 blocks merge. The native mock and both colour-vision simulations were visually reviewed; owner style/readability approval remains pending.
+
+## Detail refinement after owner feedback
+
+Replaced the busy repeated floor squares with larger quiet panels and fitted corner couplers. Bridge consoles now have inset telemetry, controls, a shaped chair and a route table. Medical beds have pillows, folded linens, side rails and separate bedside monitors. The reactor has coolant pipes, valves and containment braces; the airlock has a distinct rectangular pressure-door silhouette, ports, latches and clearance marks. Crew now has tapered anatomy, articulated boots/gloves, a face shield and belt hardware. Closed and sealed hatches gained leaf hardware and a backing plate while preserving the passage and shape cues.
+
+`detail-comparison.png` compares each prior room (left) with its refinement (right), enlarged exactly 4×. `sample-sheet-tv.png` shows current rooms, hatch states and crew at exact 2×. Rebuild both with `python tools/meridian-assets/review-sheet.py` after the asset builder. Previous hash-named images remain intact for comparison. The new linen ramp also follows the six-shade material contract.
+
+Focused tests, Chromium phone/desktop checks, native Godot display and both actual colour-vision simulations were repeated for this revision. Visual inspection confirmed distinct room silhouettes, hatch shapes and numbered crew markers in the simulated images. No physical-TV or human usability test is claimed.

diff --git a/tools/meridian-assets/STYLE.md b/tools/meridian-assets/STYLE.md
@@ -28,6 +28,8 @@ Generated by `arcpix.palette.ramp(base, shift=.055, spread=.85)`. The exact six 
 | skin | `#b67d59` | `#722e2a` `#854436` `#9c5e46` `#b67d59` `#cc9e73` `#e2c091` |
 | suit | `#697b74` | `#394d4c` `#465a57` `#566964` `#697b74` `#889b92` `#a9bcb1` |
 
+| linen | `#b8c3b6` | `#637a67` `#7a8f7b` `#96a795` `#b8c3b6` `#ced7ca` `#e3eadf` |
+
 Command uses cold blue and **I** bars; Habitat uses dusty lilac and **II** bars; Engineering uses amber and **III** bars. Names remain in the TV/phone UI. Deck identity must not depend on hue alone. Emergency red and Anomaly chartreuse are reserved accents, never team identity.
 
 Six player colours, in seat order: `#ff8a3d #3ec7ff #c08cff #5fe08a #ffd447 #ff7fb6`. Pair them with seat numbers and stable crew silhouettes; no secret allegiance is encoded in any marker.
